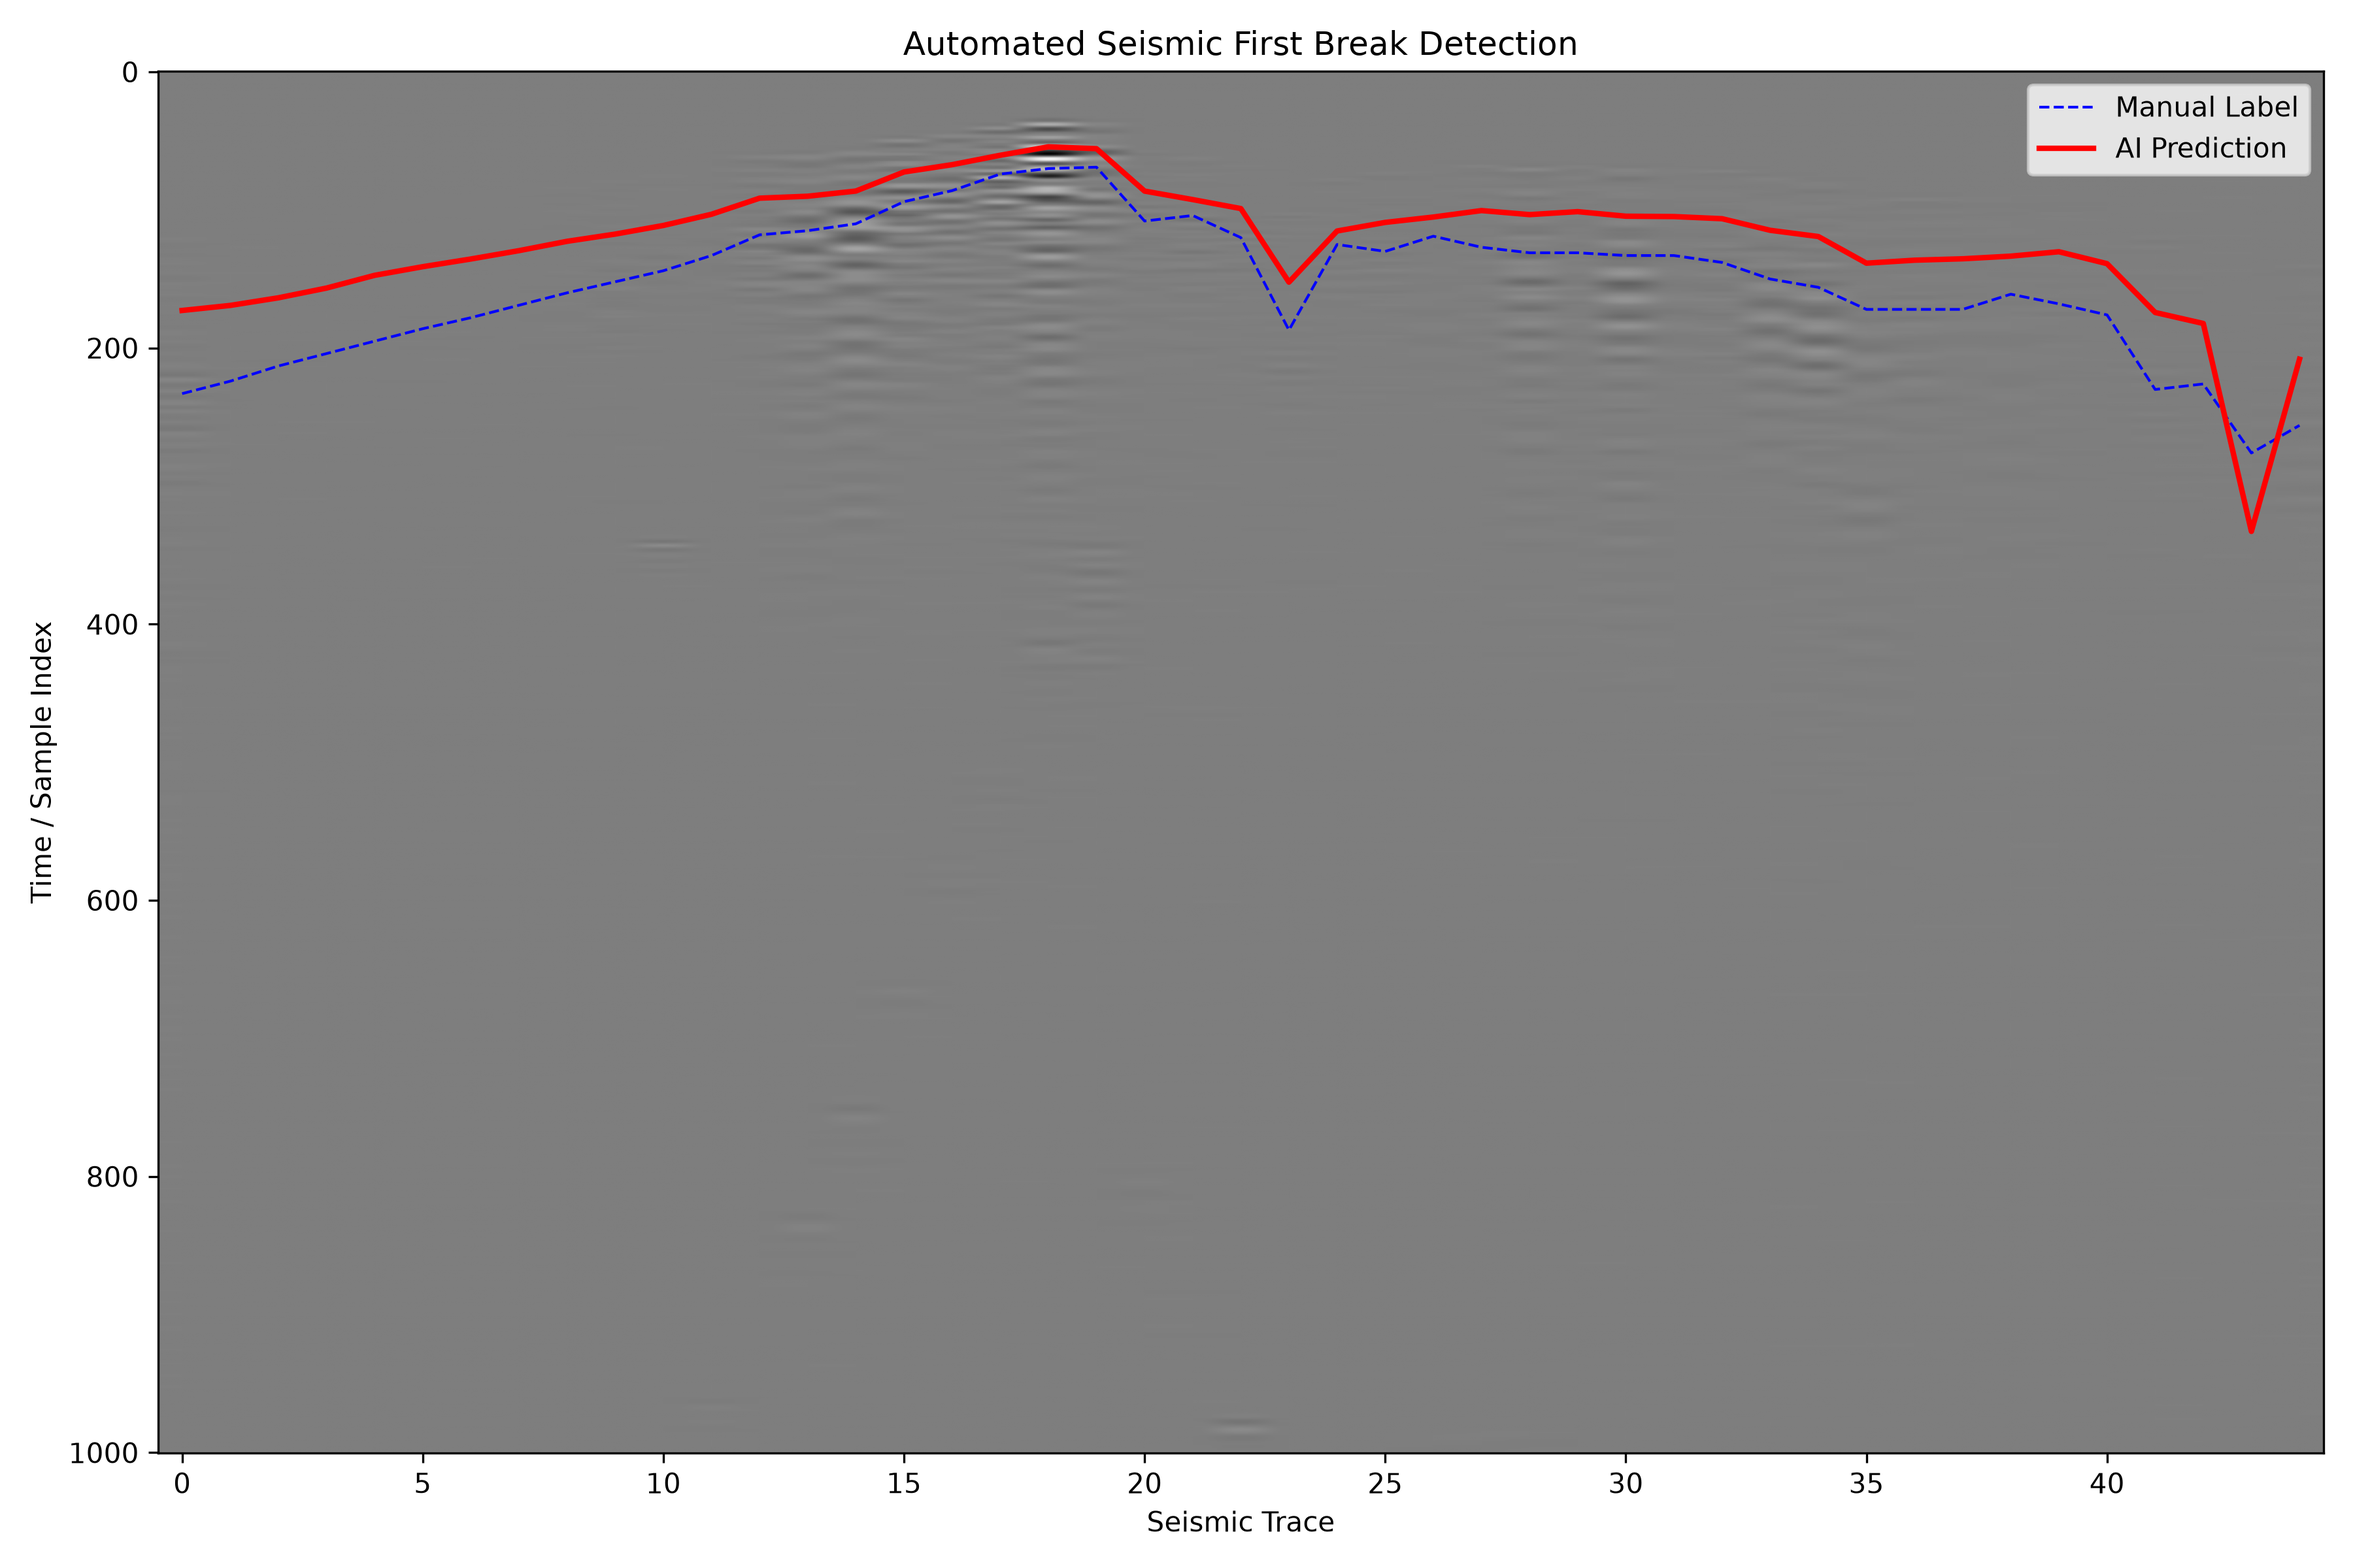
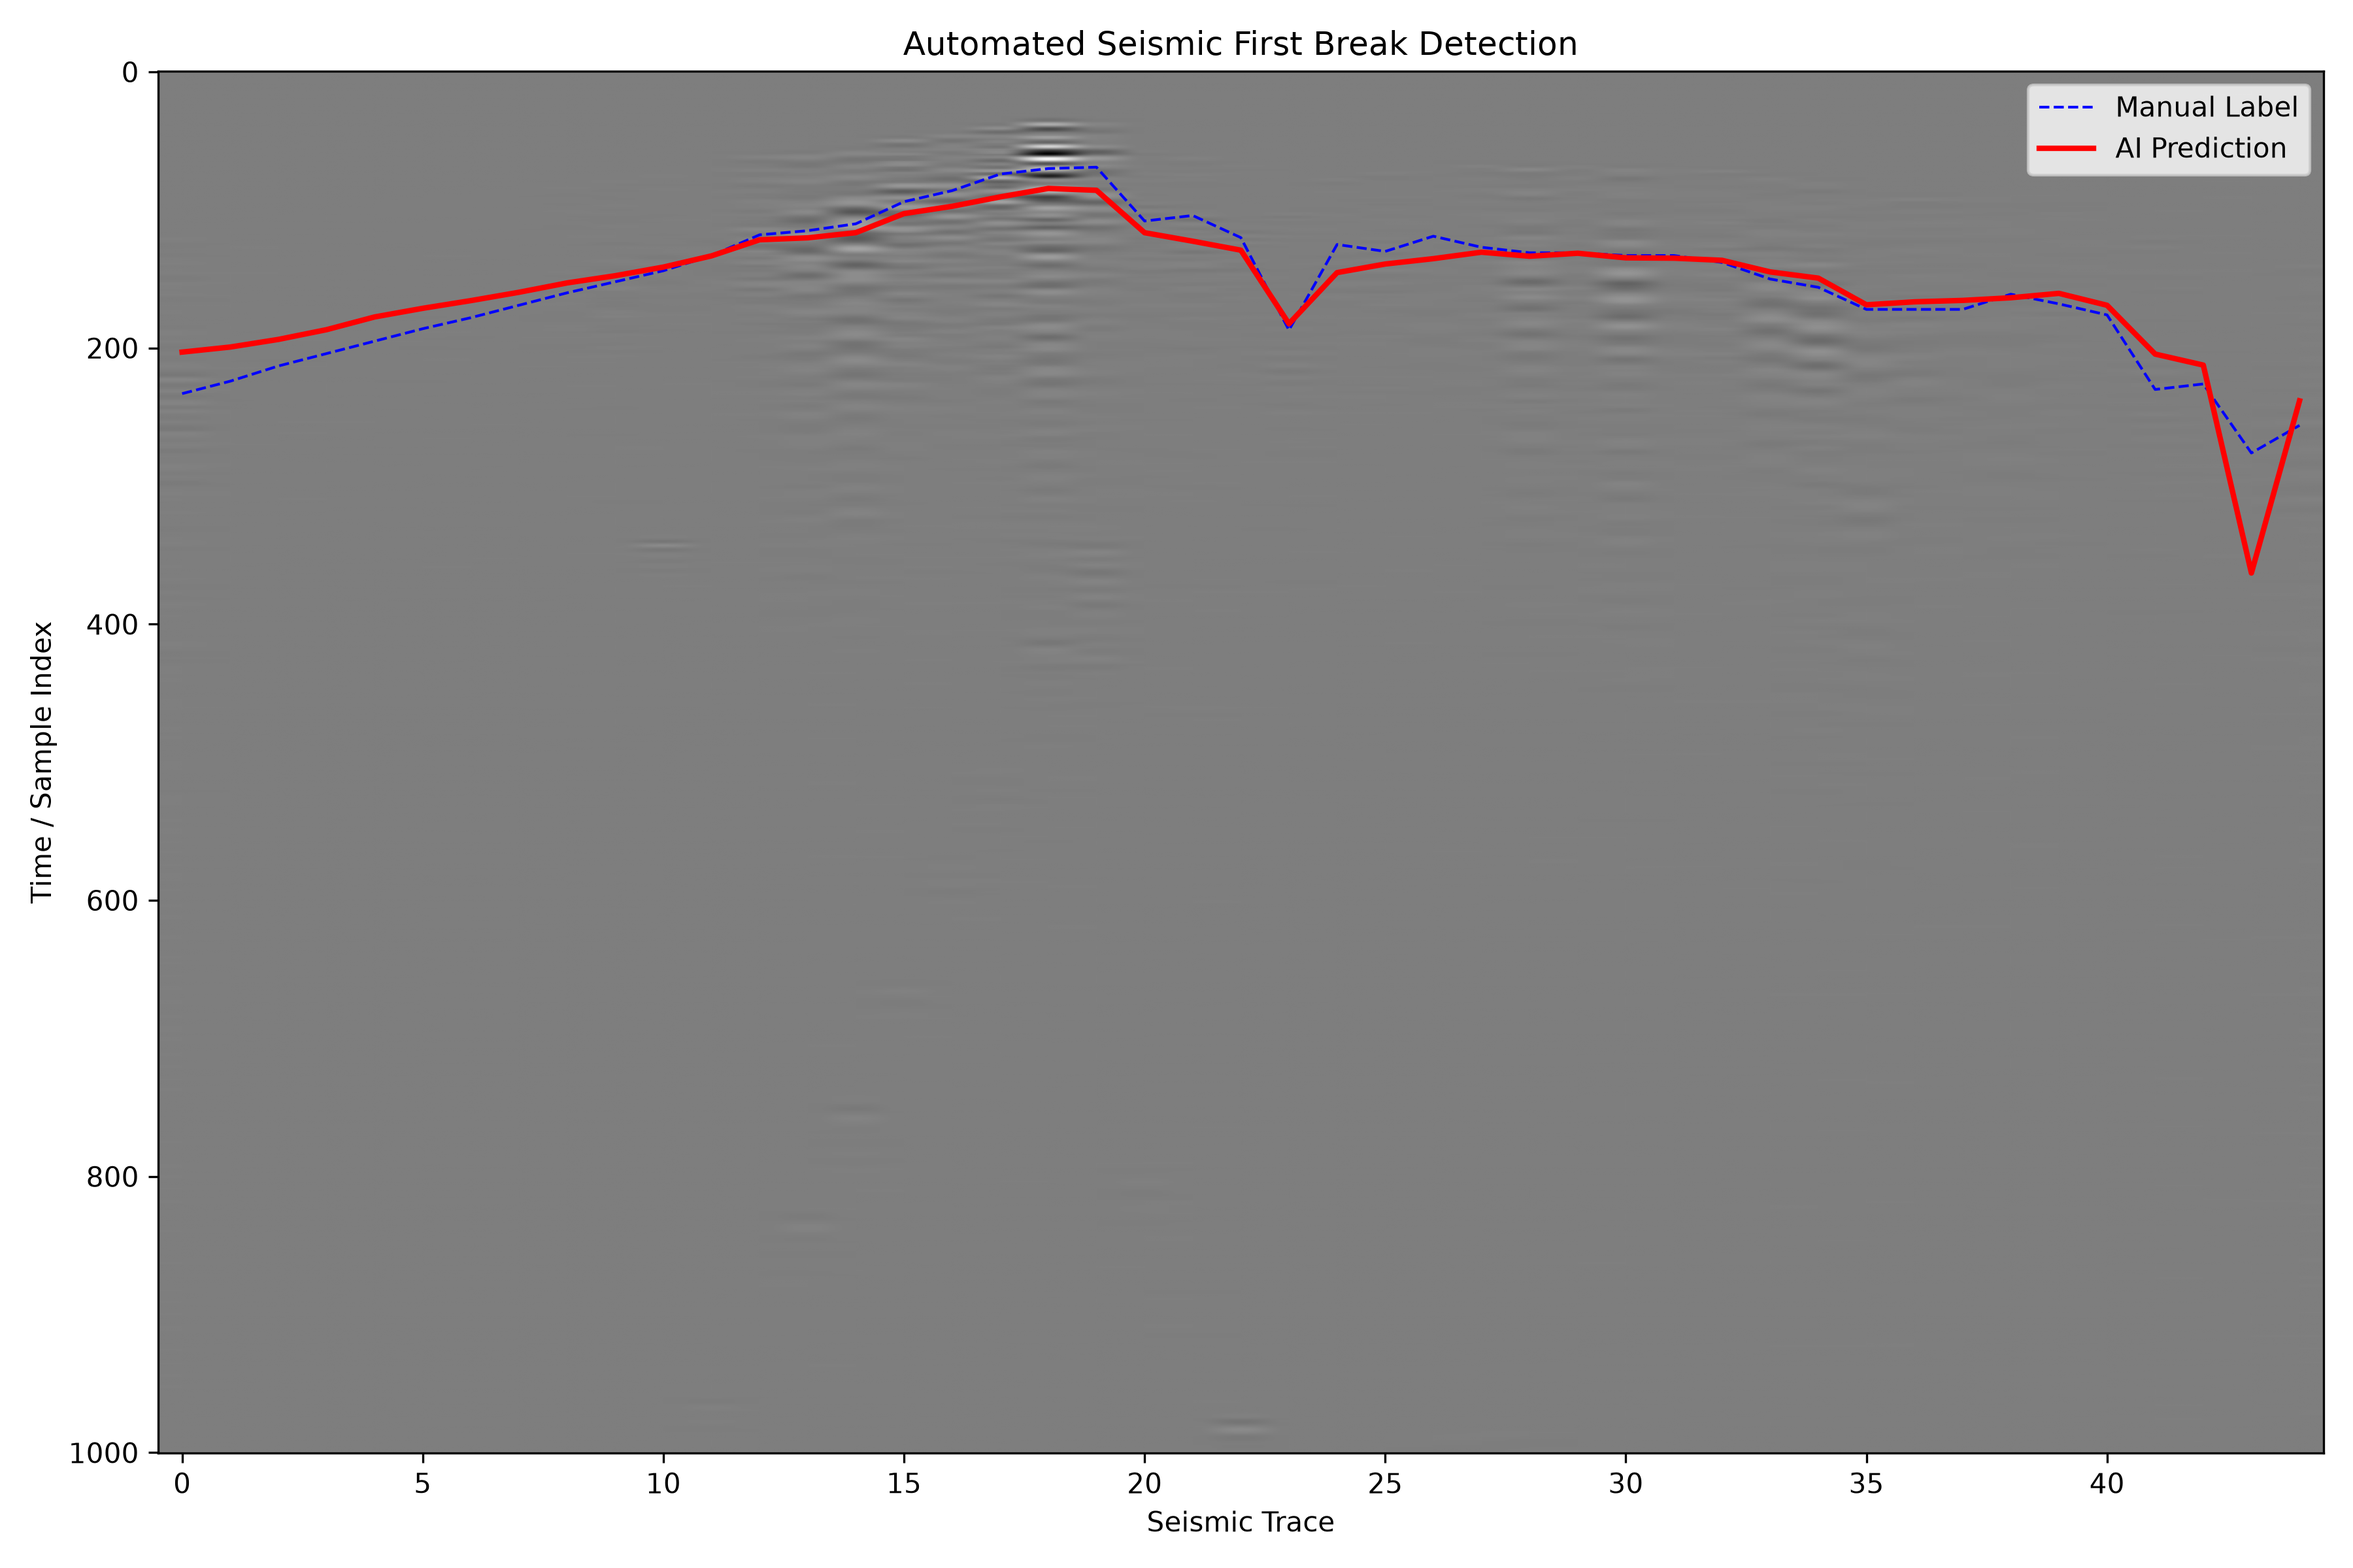
bias

Changed region(s): [[0.5289, 0.125, 0.9333, 0.2188], [0.0933, 0.0938, 0.5289, 0.2188], [0.9333, 0.2188, 0.9956, 0.375]]

diff --git a/05_visualize.py b/05_visualize.py
@@ -34,6 +34,9 @@ def visualize_results(model_path, data_dir, image_index=0):
         # Predict the first break times
         predictions = model(traces_tensor).squeeze().cpu().numpy()
 
+    bias_offset = np.mean(labels_np - predictions)
+    predictions = predictions + bias_offset
+
     # Set up the plot for your presentation
     plt.figure(figsize=(12, 8))
     
